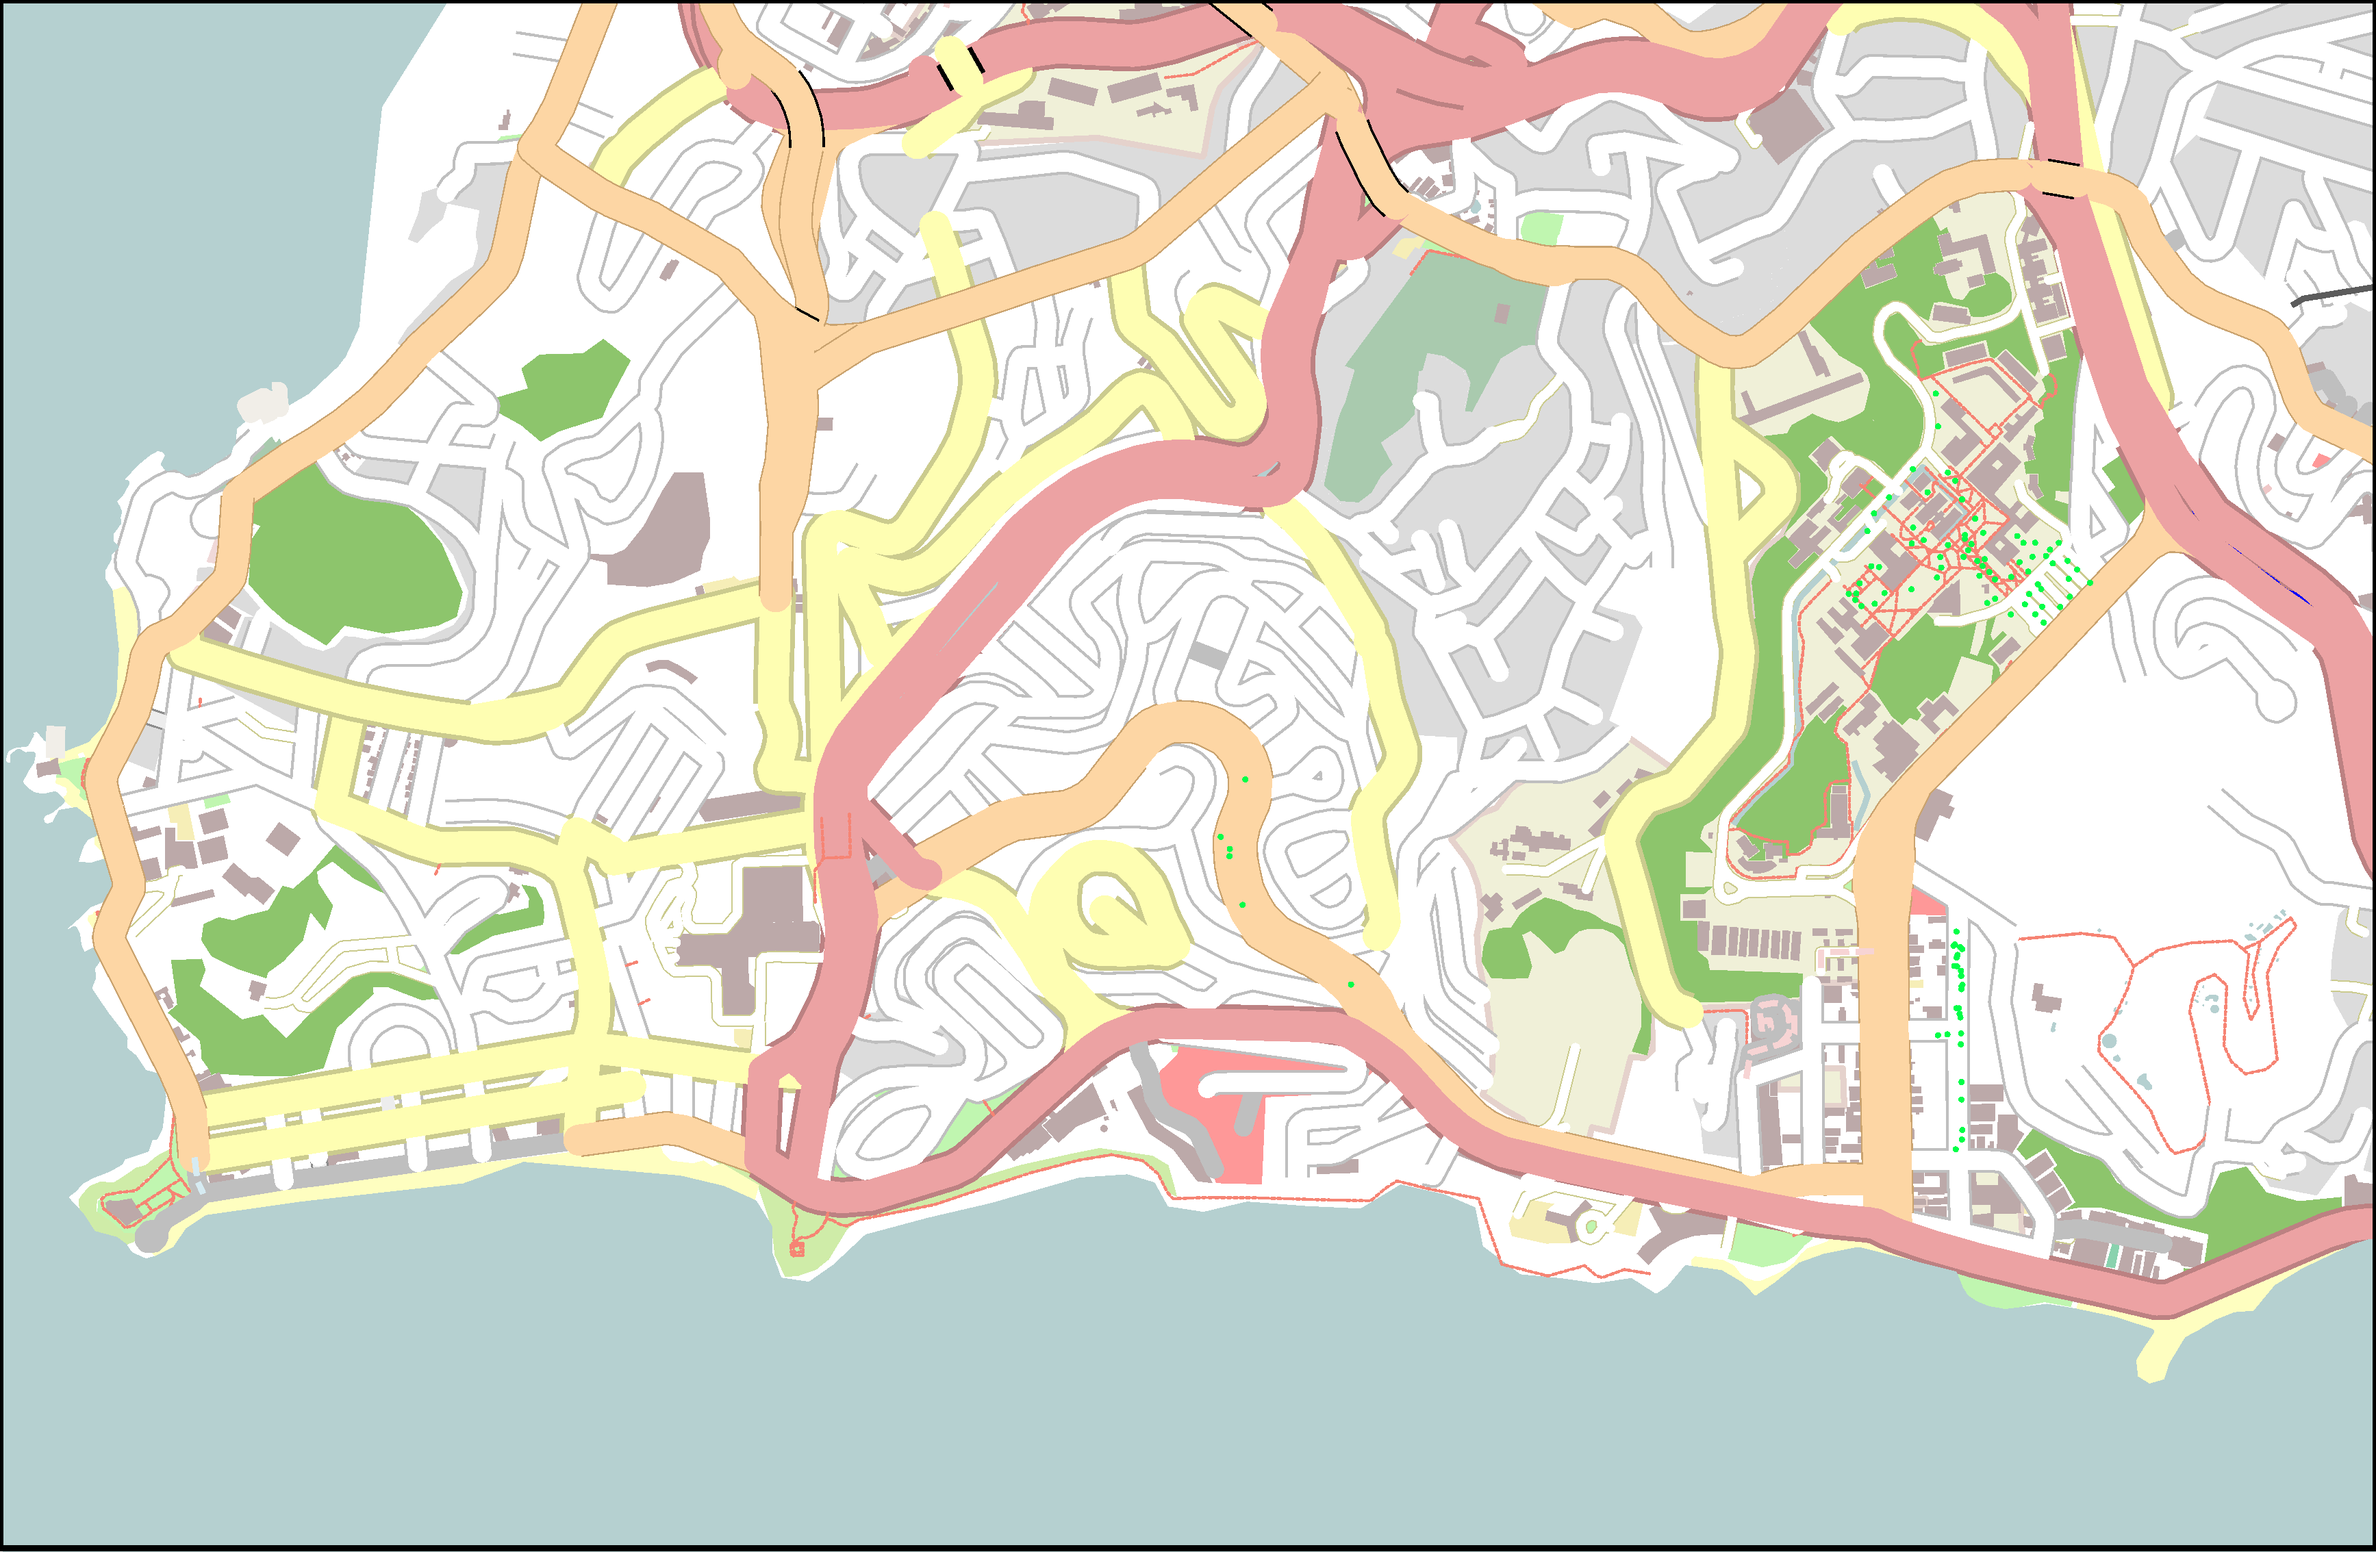
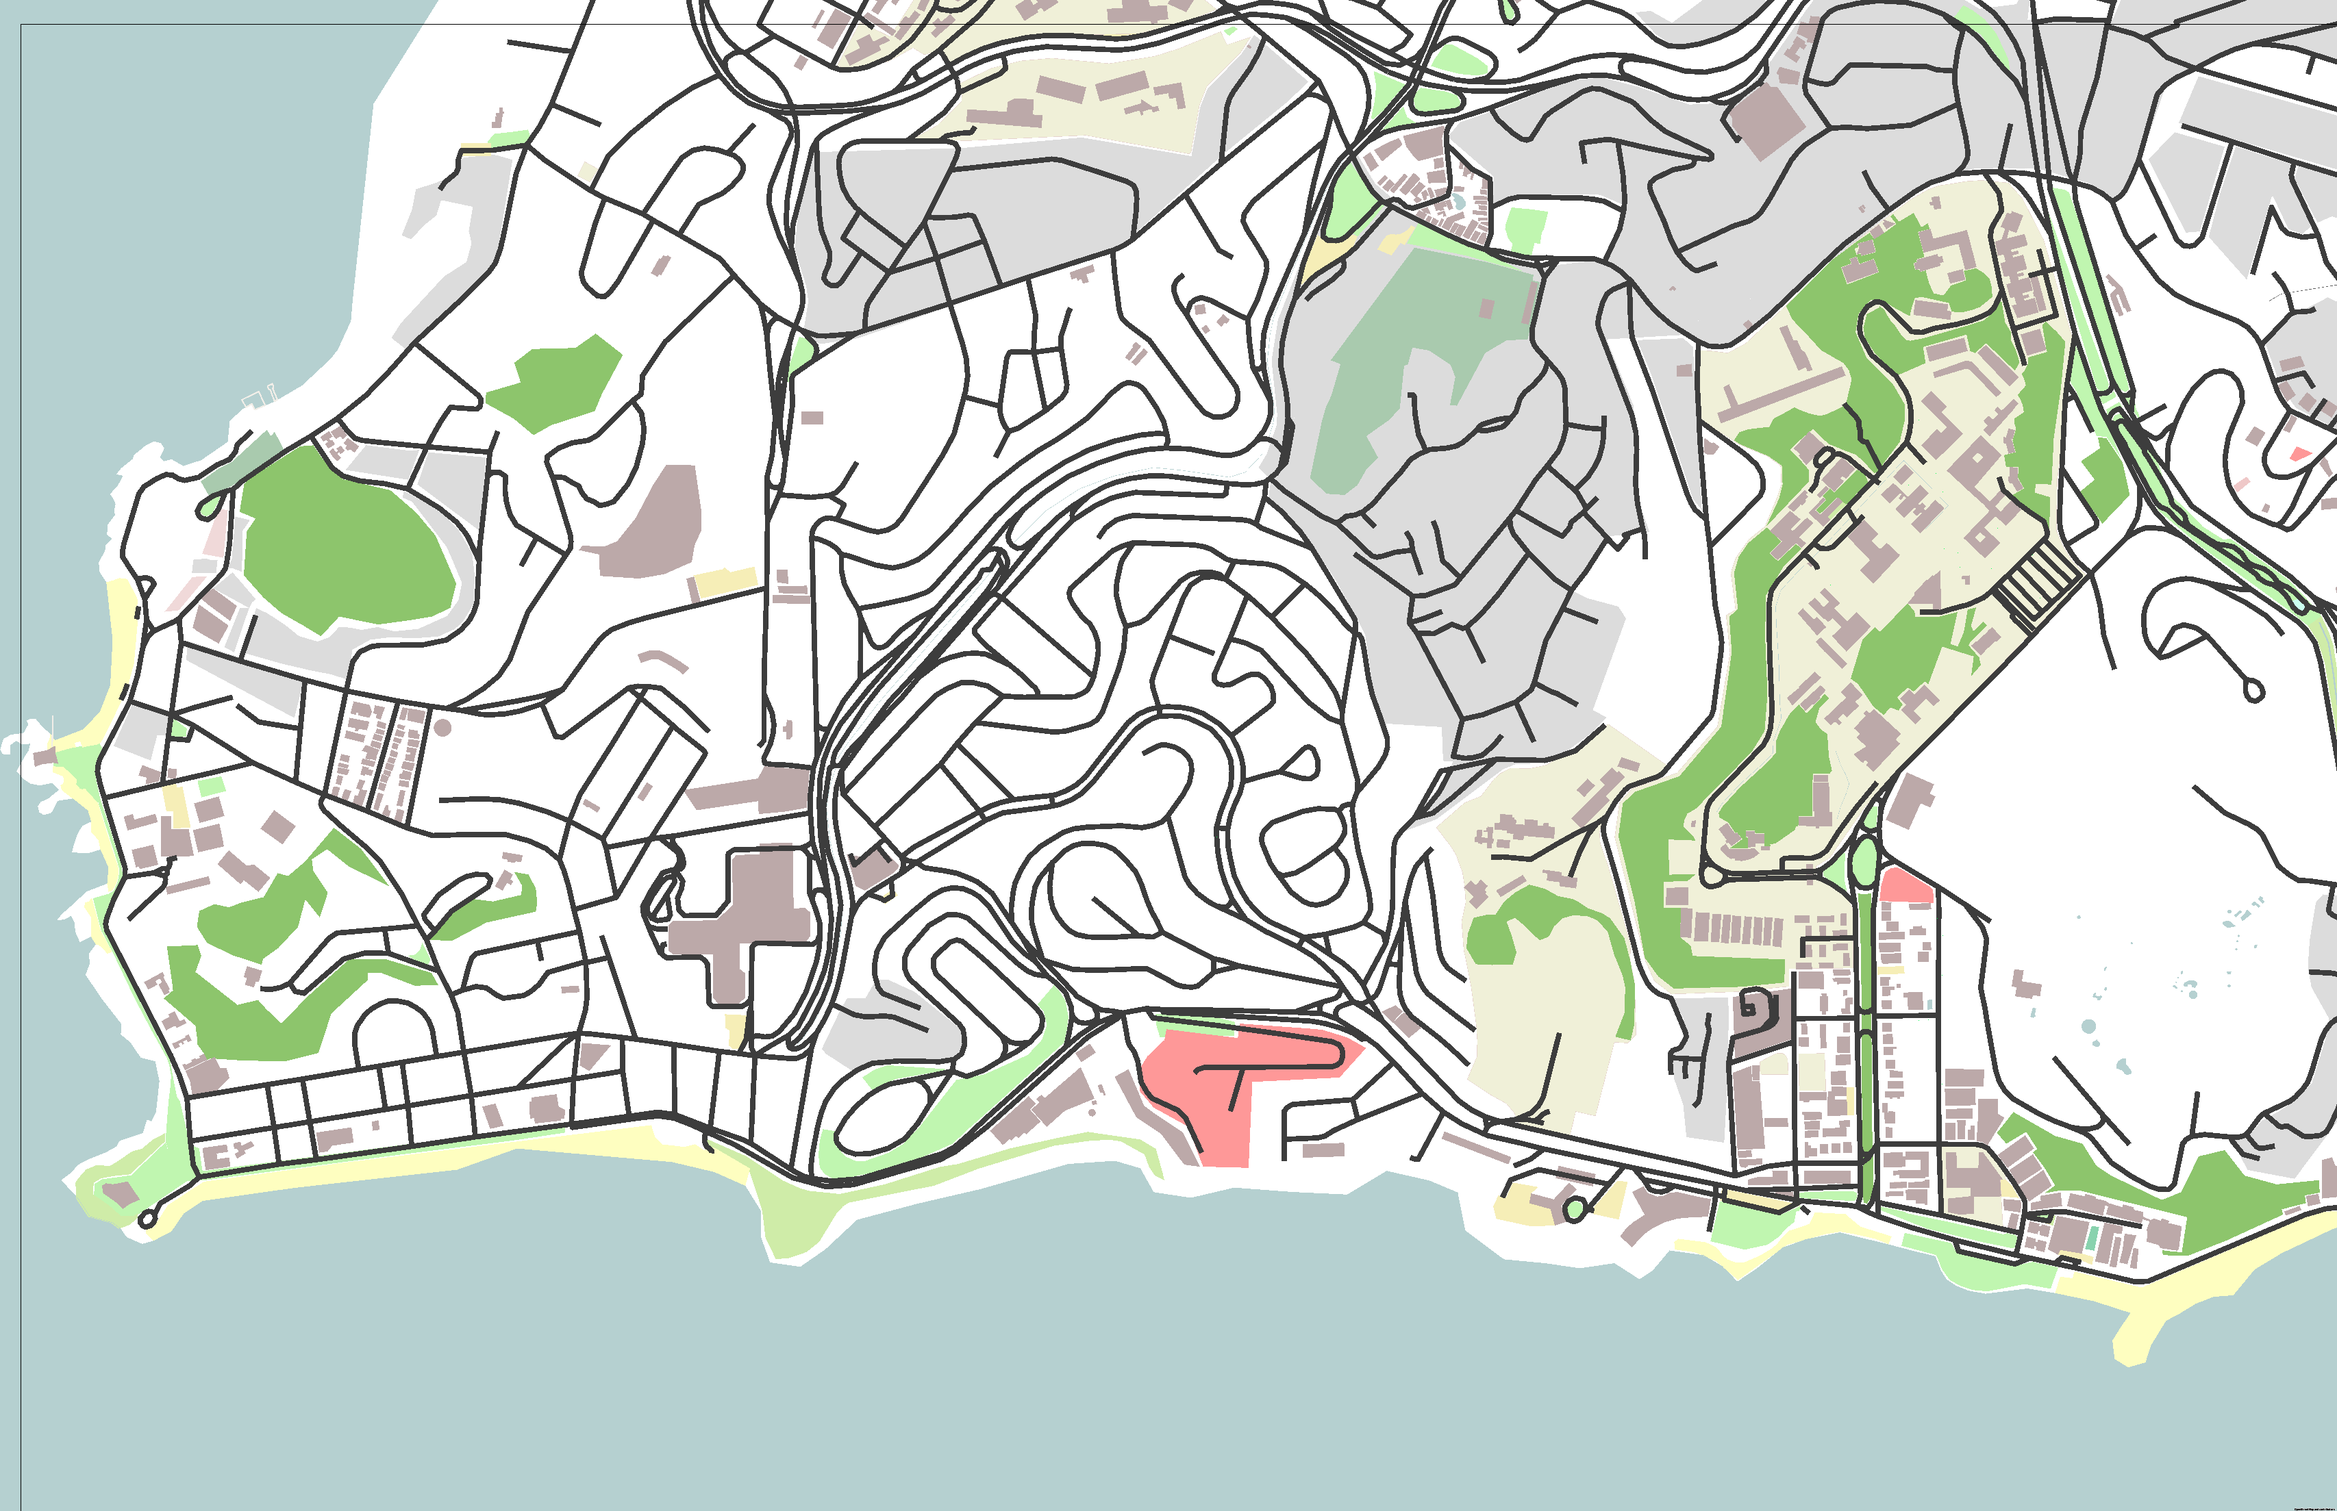
Conserta bug de árvores e muda terreno dos prédios

diff --git a/GeoBlocks/src/geoblocks/domain/Tile.java b/GeoBlocks/src/geoblocks/domain/Tile.java
@@ -20,16 +20,17 @@ public class Tile {
 	public final static Tile ORANGE_AVENUE    = new Tile(new Color(253, 214, 164), SimpleBlock.SPONGE);
 	public final static Tile GREEN_AVENUE     = new Tile(new Color(254, 254, 178), SimpleBlock.MELON_BLOCK);
 	public final static Tile MEDIUM_GRAY_AREA = new Tile(new Color(220, 220, 220), SimpleBlock.IRON_BLOCK);
-	public final static Tile BUILDING         = new Tile(new Color(188, 169, 169), SimpleBlock.STONE);
+	public final static Tile BUILDING         = new Tile(new Color(188, 169, 169), SimpleBlock.DIRT);
 	public final static Tile LIGHT_GREEN_AREA = new Tile(new Color(141, 197, 108), SimpleBlock.GRASS);
 	public final static Tile DARK_GREEN_AREA  = new Tile(new Color(169, 202, 174), SimpleBlock.GRASS);
 	public final static Tile DARK_PINK_AREA   = new Tile(new Color(236, 162, 163), SimpleBlock.REDSTONE_BLOCK);
 	public final static Tile FOOT_PATH        = new Tile(new Color(246, 132, 116), SimpleBlock.BRICK_BLOCK);
 	public final static Tile BLACK_AREA       = new Tile(new Color(0  , 0  , 0  ), SimpleBlock.OBSIDIAN);
-	public final static Tile WHITE_AREA       = new Tile(new Color(255, 255, 255), SimpleBlock.WOOL);
+	public final static Tile WHITE_AREA       = new Tile(new Color(255, 255, 255), SimpleBlock.STONE);
+	public final static Tile STREET           = new Tile(new Color( 61,  61,  61), SimpleBlock.OBSIDIAN);
 	
 	
-	public static Tile[] TYPES = {
+	public final static Tile[] TYPES = {
 			
 			WATER,
 			GRASS_0,
@@ -43,6 +44,7 @@ public class Tile {
 			DARK_PINK_AREA,
 			FOOT_PATH,
 			BLACK_AREA,
-			WHITE_AREA
+			WHITE_AREA,
+			STREET
 	};
 }

diff --git a/GeoBlocks/src/geoblocks/util/Building.java b/GeoBlocks/src/geoblocks/util/Building.java
@@ -158,15 +158,18 @@ public static void makeTree (World world, BufferedImage map, BufferedImage heigh
 							
 							minP.x = point.x;
 						} 
-						else if (point.y < minP.y) {
+						
+						if (point.y < minP.y) {
 							
 							minP.y = point.y;
 						}
-						else if (point.x > maxP.x) {
+						
+						if (point.x > maxP.x) {
 							
 							maxP.x = point.x;
 						}
-						else if (point.y > maxP.y) {
+						
+						if (point.y > maxP.y) {
 							
 							maxP.y = point.y;
 						}						

diff --git a/GeoBlocks/src/geoblocks/main/BuildMap.java b/GeoBlocks/src/geoblocks/main/BuildMap.java
@@ -81,7 +81,7 @@ public class BuildMap {
 			}
 		}
 		
-		Building.makeBuilding(world, normalMap, heightMap, Tile.BUILDING.COLOR, buildingDefaultHeight, Tile.BUILDING.BLOCK);
+		Building.makeBuilding(world, normalMap, heightMap, Tile.BUILDING.COLOR, buildingDefaultHeight, SimpleBlock.WOOL);
 		Building.makeTree(world, normalMap, heightMap, Tile.TREE.COLOR, treeDeafultHeight);
 		
 		world.save(args[2], true);
